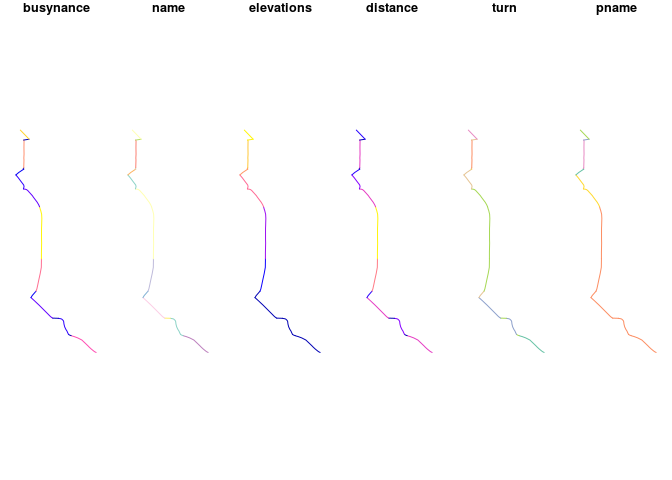
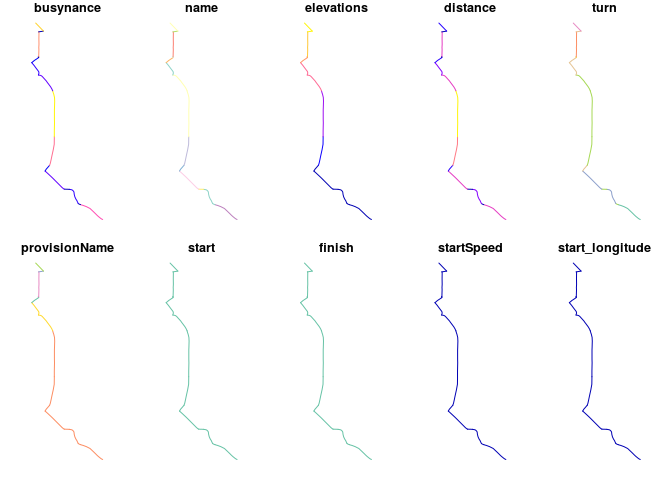
Close #3

diff --git a/README.md b/README.md
@@ -12,7 +12,8 @@ It was split-out from **stplanr** for modularity.
 Installation
 ------------
 
-You can install the released version of cyclestreets from [CRAN](https://CRAN.R-project.org) with:
+<!-- You can install the released version of cyclestreets from [CRAN](https://CRAN.R-project.org) with: -->
+Install the package with **devtools** as follows:
 
 ``` r
 # install.packages("devtools")
@@ -32,6 +33,8 @@ from = c(-1.544, 53.794)
 to = c(-1.551, 53.807)
 r = cyclestreets::journey(from, to, "balanced")
 sf:::plot.sf(r)
+#> Warning: plotting the first 10 out of 32 attributes; use max.plot = 32 to
+#> plot all
 ```
 
 <img src="man/figures/README-example-1.png" width="100%" />
